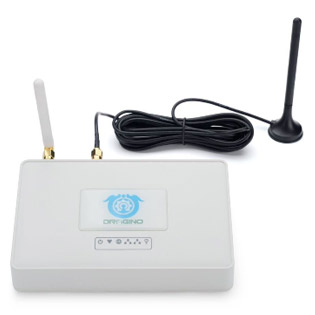
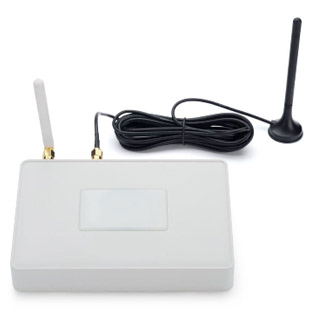
Content updates

Changed region(s): [[0.3143, 0.6, 0.4571, 0.7143], [0.2857, 0.7429, 0.4857, 0.8]]

diff --git a/src/pages/products/TemperatureTransmitter.js b/src/pages/products/TemperatureTransmitter.js
@@ -2,40 +2,41 @@ import React from "react";
 import { PageLayout } from "../../component/PageLayout";
 import { Panel } from "../../component/Panel";
 
-export default function LTC2LoRaWANTemperatureTransmitter() {
+export default function TemperatureTransmitter() {
   return (
     <PageLayout>
-      <Panel header="LTC2 LoRaWAN Temperature Transmitter">
+      <Panel header="Seraphin Temperature Transmitter">
         <div className="grid">
           <div>
             <img
               src="/temperature-sensor.jpg"
-              alt="LTC2 LoRaWAN Temperature Transmitter"
+              alt="Seraphin Temperature Transmitter"
             />
             <p>
-              The Dragino LTC2 Industrial LoRaWAN Temperature Transmitter is
-              designed to monitor temperature for different environment. It
-              supports to read PT100 probe and convert the value to temperature
-              and uplink to IoT server via LoRaWAN protocol.
+              The Seraphin Temperature Transmitter is designed to monitor
+              temperature for different environment. It supports to read PT100
+              probe and convert the value to temperature and uplink to IoT
+              server via LoRaWAN protocol.
             </p>
             <p>
-              LTC2 supports datalog feature. User can retrieve the sensor value
-              via LoRaWAN downlink command.
+              Seraphin Temperature Transmitter supports datalog feature. User
+              can retrieve the sensor value via LoRaWAN downlink command.
             </p>
             <p>
-              LTC2 is powered by 8500mA Li-SOCI2 battery for long time
-              measurement. The battery can run 2~10 years depends on the network
-              environment and working mode.
+              Seraphin Temperature Transmitter is powered by 8500mA Li-SOCI2
+              battery for long time measurement. The battery can run 2~10 years
+              depends on the network environment and working mode.
             </p>
             <p>
-              Each LTC2 has two internal 16 bit ADC interfaces and are
-              calibrated on 12 set resistors to make sure the accuracy
-              measurement on wide range.
+              Each Seraphin Temperature Transmitter has two internal 16 bit ADC
+              interfaces and are calibrated on 12 set resistors to make sure the
+              accuracy measurement on wide range.
             </p>
             <p>
-              LTC2 is LoRaWAN v1.0.3 compatible. Each LTC2 is pre-load with a
-              set of unique keys for LoRaWAN registration, register these keys
-              to local LoRaWAN server and it will auto connect after power on.
+              Seraphin Temperature Transmitter is LoRaWAN v1.0.3 compatible.
+              Each Seraphin Temperature Transmitter is pre-load with a set of
+              unique keys for LoRaWAN registration, register these keys to local
+              LoRaWAN server and it will auto connect after power on.
             </p>
           </div>
           <div>

diff --git a/src/pages/products/Gateway.js b/src/pages/products/Gateway.js
@@ -2,34 +2,36 @@ import React from "react";
 import { PageLayout } from "../../component/PageLayout";
 import { Panel } from "../../component/Panel";
 
-export default function LG308LoRaWANGateway() {
+export default function Gateway() {
   return (
     <PageLayout>
-      <Panel header="LG308 LoRaWAN Gateway">
+      <Panel header="Seraphin Gateway">
         <div className="grid">
           <div>
-            <img src="/gateway.jpg" alt="LG308 LoRaWAN Gateway" />
+            <img src="/gateway.jpg" alt="Seraphin Gateway" />
             <p>
-              The LG308 is an open source LoRaWAN Pico Gateway. It lets you
-              bridge LoRa wireless network to an IP network via WiFi, Ethernet,
-              3G or 4G cellular network. The LoRa wireless allows users to send
-              data and reach extremely long ranges at low data-rates.
+              The Seraphin Gateway is an open source LoRaWAN Pico Gateway. It
+              lets you bridge LoRa wireless network to an IP network via WiFi,
+              Ethernet, 3G or 4G cellular network. The LoRa wireless allows
+              users to send data and reach extremely long ranges at low
+              data-rates.
             </p>
             <p>
-              The LG308 uses Semtech packet forwarder and fully compatible with
-              LoRaWAN protocol. It includes a SX1301 LoRa concentrator, which
-              provides 10 programmable parallel demodulation paths.
+              The Seraphin Gateway uses Semtech packet forwarder and fully
+              compatible with LoRaWAN protocol. It includes a SX1301 LoRa
+              concentrator, which provides 10 programmable parallel demodulation
+              paths.
             </p>
             <p>
-              LG308 has pre-configured standard LoRaWAN frequency bands to use
-              for different countries. User can also customized the frequency
-              bands to use in their own LoRa network.
+              Seraphin Gateway has pre-configured standard LoRaWAN frequency
+              bands to use for different countries. User can also customized the
+              frequency bands to use in their own LoRa network.
             </p>
             <p>
-              LG308 can communicate with ABP LoRaWAN end node without LoRaWAN
-              server. System integrator can use it to integrate with their
-              existing IoT Service without set up own LoRaWAN server or use 3rd
-              party LoRaWAN service.
+              Seraphin Gateway can communicate with ABP LoRaWAN end node without
+              LoRaWAN server. System integrator can use it to integrate with
+              their existing IoT Service without set up own LoRaWAN server or
+              use 3rd party LoRaWAN service.
             </p>
             <h2>Features</h2>
             <ul>

diff --git a/src/pages/products.js b/src/pages/products.js
@@ -10,18 +10,18 @@ export default function Products() {
         <ProductList>
           <Product
             image="/temperature-sensor.jpg"
-            url="/products/LTC2LoRaWANTemperatureTransmitter"
-            header="LTC2 LoRaWAN Temperature Transmitter"
-            content="The Dragino LTC2 Industrial LoRaWAN Temperature Transmitter is
+            url="/products/TemperatureTransmitter"
+            header="Seraphin Temperature Transmitter"
+            content="The Seraphin Temperature Transmitter Industrial LoRaWAN Temperature Transmitter is
             designed to monitor temperature for different environment. It
             supports to read PT100 probe and convert the value to temperature
             and uplink to IoT server via LoRaWAN protocol."
           />
           <Product
             image="/gateway.jpg"
-            url="/products/LG308LoRaWANGateway"
-            header="LG308 LoRaWAN Gateway"
-            content="The LG308 is an open source LoRaWAN Pico Gateway. It lets you bridge
+            url="/products/Gateway"
+            header="Seraphin Gateway"
+            content="The Seraphin Gateway is an open source LoRaWAN Pico Gateway. It lets you bridge
               LoRa wireless network to an IP network via WiFi, Ethernet, 3G or 4G
               cellular network. The LoRa wireless allows users to send data and
               reach extremely long ranges at low data-rates."
